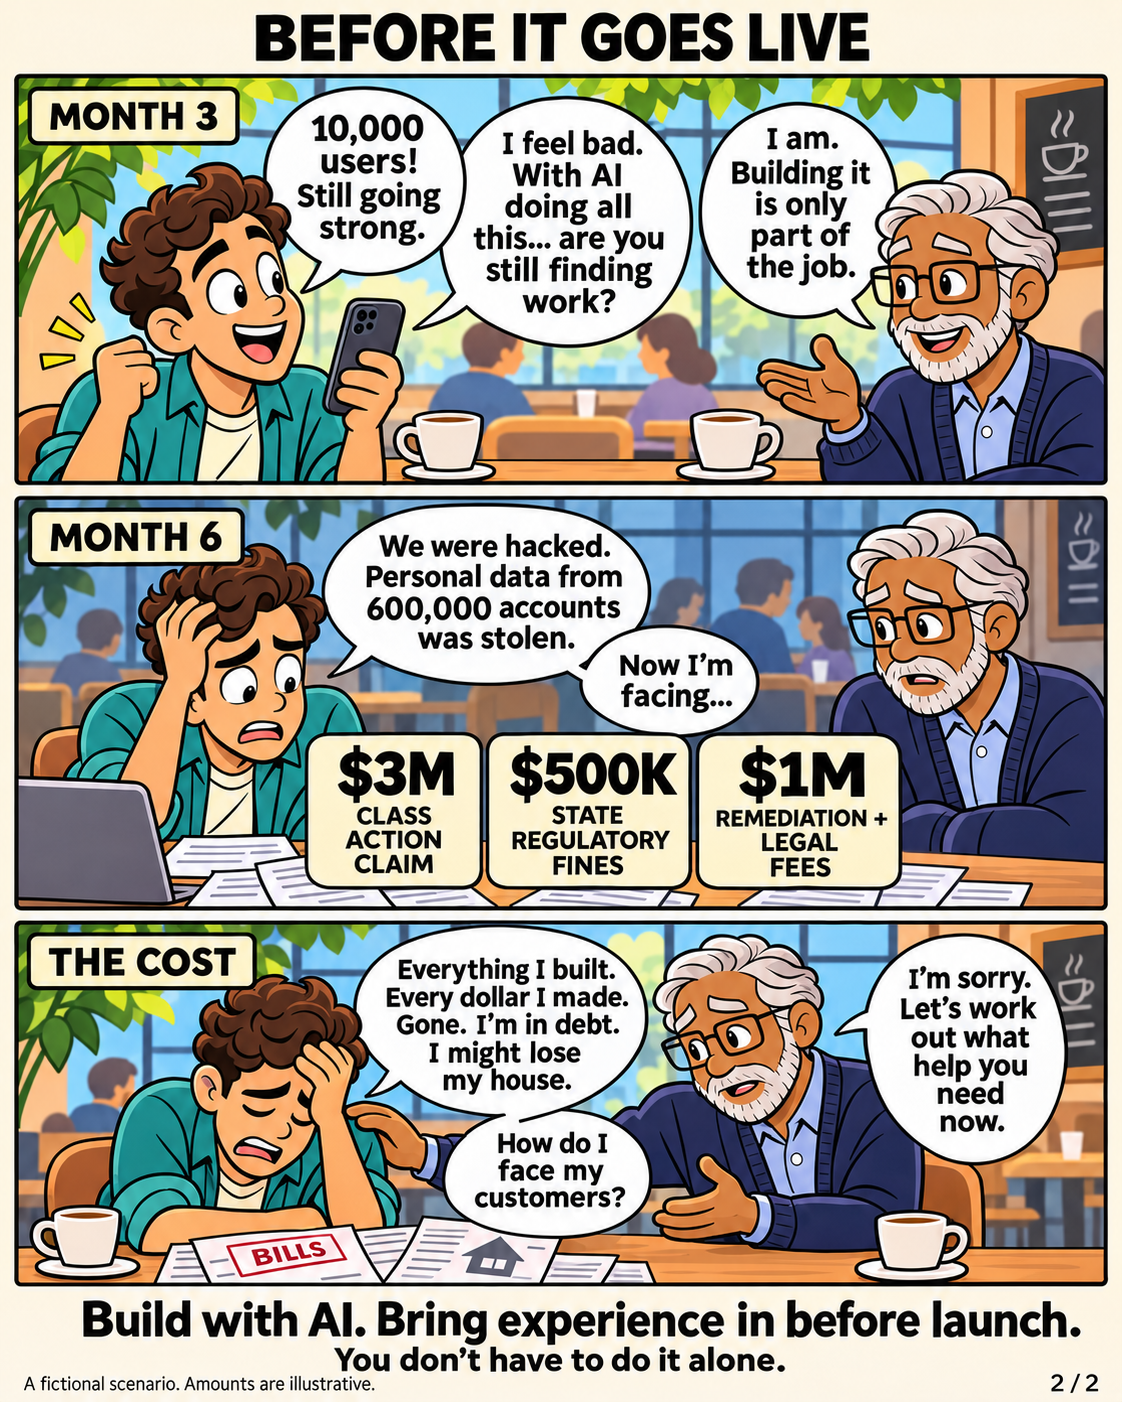
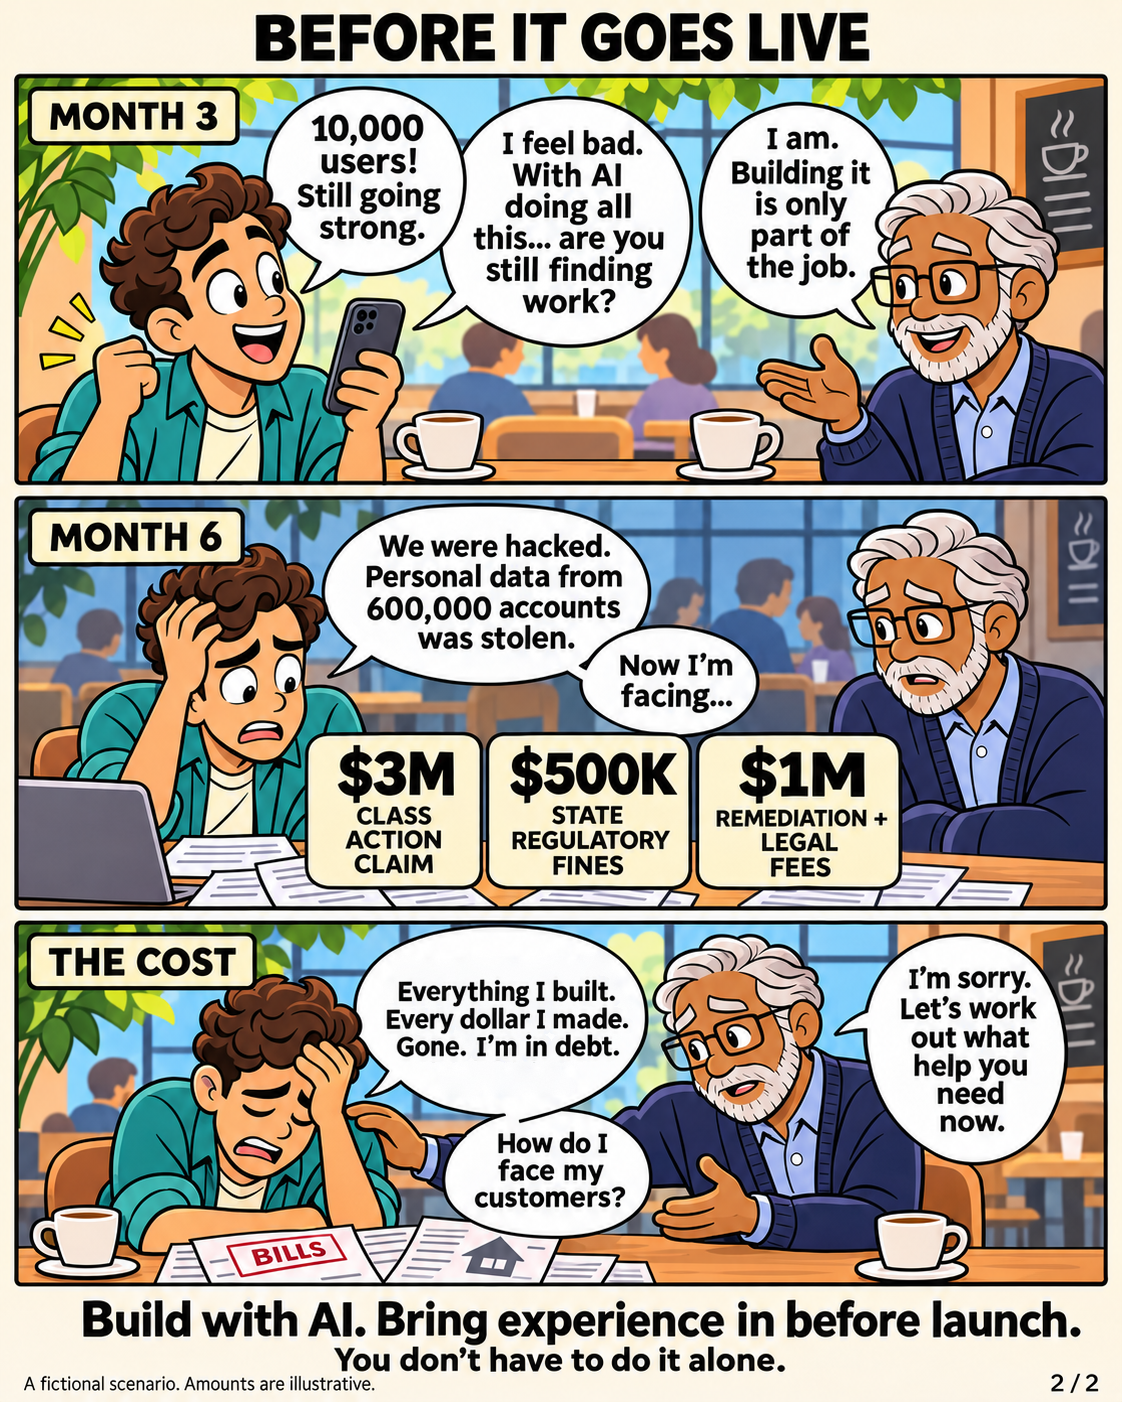
Article: AI can build the app - closing paragraph, edited comic, source link
Brings the article in line with the live site after the 2026-11-12 deploy.
Files, all under src/www/:
- writing/ai-can-build-the-app.html: adds the closing paragraph, links the
  FTC case page as the source, and removes a named individual. The live
  file now uses LF line endings (the 11-11 copy was CRLF), so the whole
  file shows as changed; the text change itself is 3 lines.
- writing/ai-can-build-the-app-assets/comic-page-2.png: edited comic page.

Each file is byte-identical to the live copy.

Changed region(s): [[0.3431, 0.6748, 0.5615, 0.7974]]

diff --git a/src/www/writing/ai-can-build-the-app.html b/src/www/writing/ai-can-build-the-app.html
@@ -228,7 +228,7 @@
 
     <p>The characters and amounts are fictional. The responsibilities are real, and the financial consequences are not theoretical.</p>
 
-    <p>After a breach exposed information about approximately <strong>2.5 million consumers</strong>, the FTC took action against alcohol-delivery platform <strong>Drizly and its CEO, James Cory Rellas, personally</strong>. The FTC alleged that they had been alerted to security problems years earlier without adequately addressing them. Its final 2023 order imposed security obligations on Rellas for ten years, including at certain future businesses he owns or leads. This was personal regulatory accountability, rather than a personal damages award, but the obligations attached to the individual executive. <a href="https://www.ftc.gov/news-events/news/press-releases/2022/10/ftc-takes-action-against-drizly-its-ceo-james-cory-rellas-security-failures-exposed-data-25-million">FTC announcement</a>, <a href="https://www.ftc.gov/system/files/ftc_gov/pdf/Drizly-Order.pdf">final order</a></p>
+    <p>After a breach exposed information about approximately <strong>2.5 million consumers</strong>, the FTC took action against alcohol-delivery platform <strong>Drizly and its CEO personally</strong>. The FTC alleged that they had been alerted to security problems years earlier without adequately addressing them. Its final 2023 order imposed security obligations on the CEO for ten years, including at certain future businesses he owns or leads. This was personal regulatory accountability, rather than a personal damages award, but the obligations attached to the individual executive. <a href="https://www.ftc.gov/legal-library/browse/cases-proceedings/2023185-drizly-llc-matter">FTC case page</a>, <a href="https://www.ftc.gov/system/files/ftc_gov/pdf/Drizly-Order.pdf">final order</a></p>
 
     <p>Following its 2020 breach, <strong>EyeMed</strong> agreed to <strong>$600,000 in New York penalties</strong> and a separate <strong>$5 million consumer class-action settlement</strong>. The same incident can bring both government enforcement and customer litigation. <a href="https://ag.ny.gov/press-release/2022/attorney-general-james-announces-600000-agreement-eyemed-after-2020-data-breach">New York attorney general</a>, <a href="https://www.eyemeddatasettlement.com/faq">court-authorized settlement website</a></p>
 
@@ -263,6 +263,8 @@
     <p>AI has lowered an important barrier to entry. The barriers involving customers, capital, trust, and sustained responsibility still shape what happens next.</p>
 
     <p>That is a reason for a calmer view of the situation. More people can attempt to build software. How many will want to run the resulting businesses—and how many of those businesses will succeed—is a much larger question.</p>
+
+    <p>See this moment differently. People who are building apps with AI, but have never created code one keystroke at a time, probably have no clue what lies ahead. But you do! Be the evangelist and try to save them from themselves.</p>
 
   </article>
 </main>
